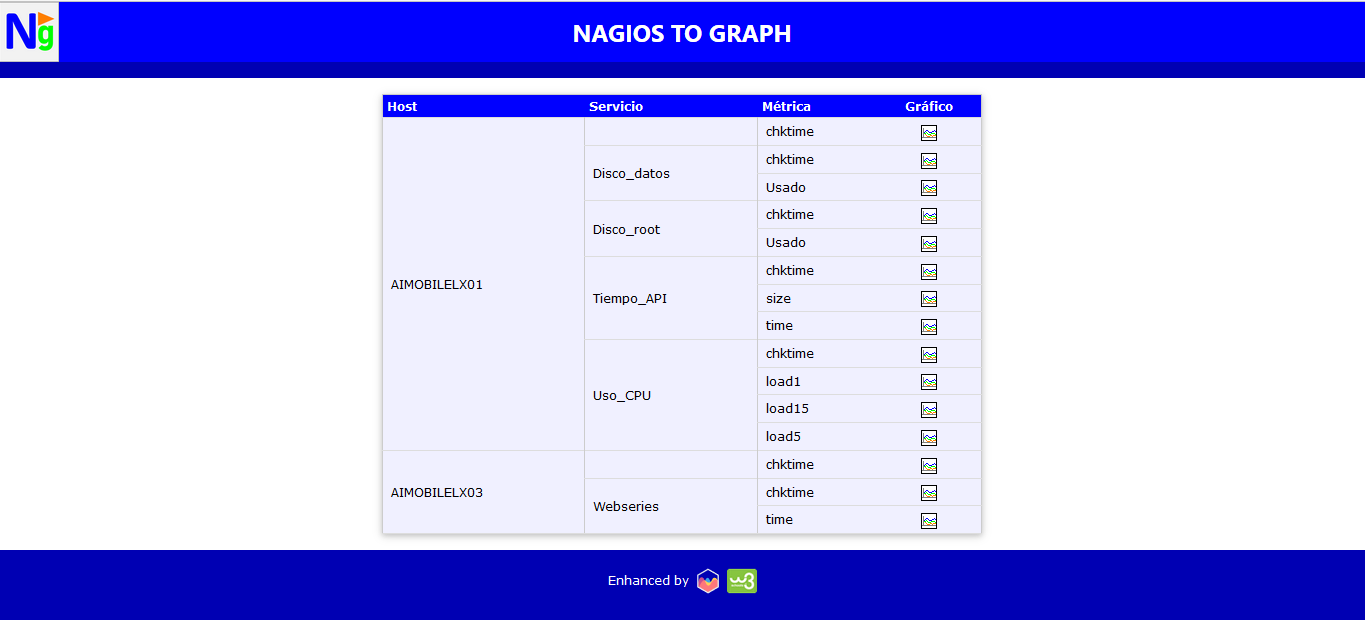
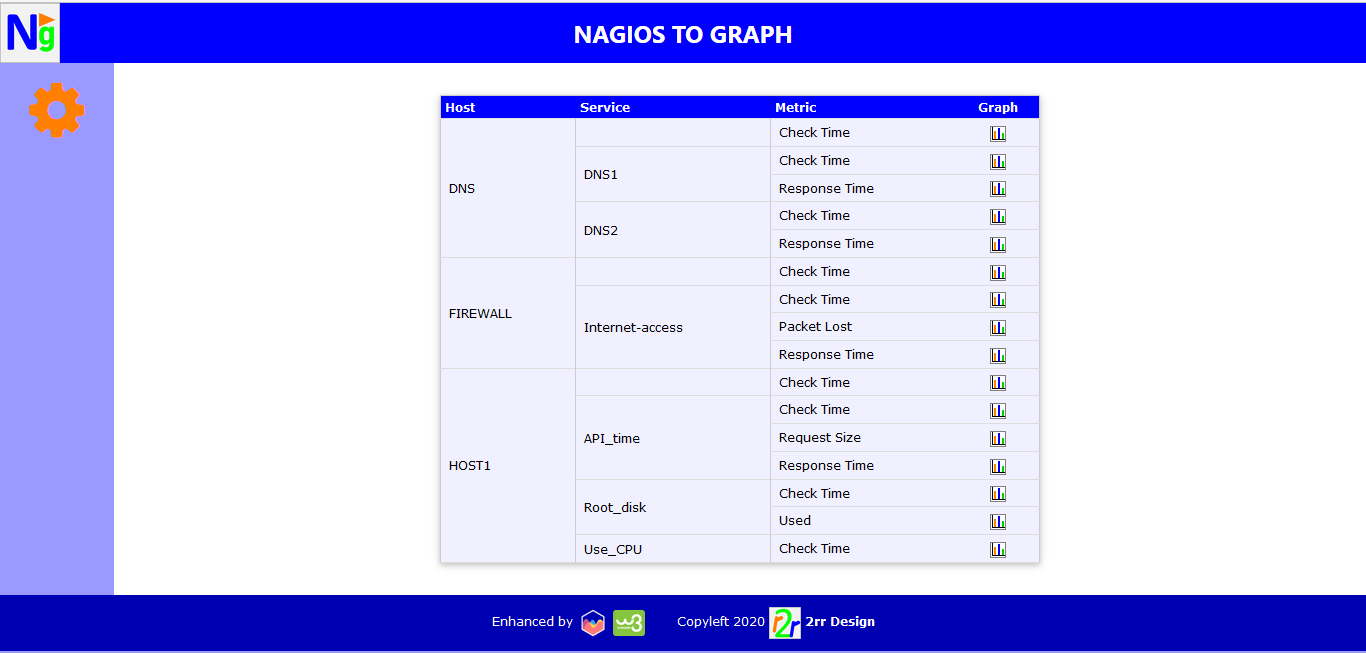
Version 1.0.0

diff --git a/www/frm/n2gconfig_pri.htm b/www/frm/n2gconfig_pri.htm
@@ -1,12 +1,12 @@
 <?php include ('frm/cab.htm');?>
 <body class="w3-theme-l3">
 <script src="https://cdn.jsdelivr.net/npm/chart.js@2.9.4/dist/Chart.min.js"></script>   
-<?php $titulo='NAGIOS TO GRAPH';include ('frm/tit.htm');?>   
+<?php $titulo='NAGIOS TO GRAPH - '.TITCFG;include ('frm/tit.htm');?>   
 <form id="form" action="<?php echo MODULO;?>.php" method="post">
    <input type="hidden" name="ftoken" id="ftoken" value="<?php echo $_REQUEST['ftoken']; ?>">
    <input type="hidden" name="modulo" id="modulo" value="<?php echo MODULO;?>">
    <div class="w3-row">
-      <div class="w3-col m1 l1 w3-theme-l3"><p class="w3-center"><a href="n2gconfig.php" title="<?php echo TITCFG;?>"><i class="fa fa-gear w3-jumbo" style="color: #ff7f00"></i></a></p>
+      <div class="w3-col m1 l1 w3-theme-l3"><p class="w3-center"><a href="./" title="<?php echo GBOTRET;?>"><i class="fa fa-sign-out fa-rotate-180 w3-jumbo" style="color: #ff7f00"></i></a></p>
       </div>
       <div class="w3-col m11 l11 w3-white">
          <div class="w3-container w3-responsive w3-margin-top w3-margin-bottom w3-white">
@@ -16,7 +16,8 @@
                   <th class="w3-padding-tiny"><?php echo TABTITHOS;?></th>
                   <th class="w3-padding-tiny"><?php echo TABTITSER;?></th>
                   <th class="w3-padding-tiny"><?php echo TABTITMET;?></th>
-                  <th class="w3-padding-tiny w3-center"><?php echo TABTITGRA;?></th>
+                  <th class="w3-padding-tiny"><?php echo TABCFGALI;?></th>
+                  <th class="w3-padding-tiny"><?php echo TABCFGUNI;?></th>
                </tr>
             </thead>
             <?php
@@ -24,36 +25,48 @@
             <tr>
                <?php if ($val['mh']==true){ echo '<td class="w3-padding-small w3-border-right" rowspan="',$hosts[$val['host']],'" style="vertical-align: middle;">',$val['host'],'</td>';}?>
                <?php if ($val['ms']==true){ echo '<td class="w3-padding-small w3-border-right" rowspan="',$services[$val['host'].$val['service']],'" style="vertical-align: middle;">',$val['service'],'</td>';}?>
-               <td class="w3-padding-small"><?php echo $val['metalias'] ;?></td>
-               <td class="w3-padding-small w3-center"><button class="w3-btn w3-padding-0 w3-hover-theme" type="button" id="botgraph" style="background-color: transparent; background-image:url('img/graph_16b.png'); background-repeat: no-repeat; width: 16px; height: 16px" onclick="vergraph('<?php echo $val['idmser'];?>');">&nbsp;</button></td>
+               <td class="w3-padding-small w3-border-right"><?php echo $val['metrica'] ;?></td>
+               <td class="w3-padding-tiny w3-border-right"><input class="w3-input w3-border w3-padding-tiny" value="<?php echo $val['metalias'];?>" onchange="grabacambio('metalias',this.value,'<?php echo $val['idmser'];?>');"></td>
+               <td class="w3-padding-tiny"><input class="w3-input w3-border w3-padding-tiny" value="<?php echo $val['unidad'];?>" onchange="grabacambio('unidad',this.value,'<?php echo $val['idmser'];?>');"></td>
             </tr>   
             <?php } ?>
          </table>
          </div>
       </div>
    </div>
-   <!--Popup para mostrar gráfico -->
+   <!--Popup para selección -->
    <div id="psel" class="w3-modal" style="padding-top: 50px; display:none">
-      <div class="w3-modal-content w4-card-4 w3-container" style="width: 1000px">
+      <div class="w3-modal-content w3-border-red" style="border: 5px solid">
+         <div class="w3-bar w3-red">&nbsp;</div>
          <div class="w3-container">
-            <br>
-            <div id="pselcon" class="w3-border w3-white"><canvas id="graf1"></canvas></div>
+            <div id="pselcon"></div>
          </div>
-         <div class="w3-container w3-center w3-margin-top">
-            <input class="w3-btn w3-theme w3-hover-theme w3-padding-small w3-round-large" type="button" value="<" onclick="vergraph(0,'botatras');">
-            <input class="w3-btn w3-theme w3-hover-theme w3-padding-small w3-round-large" type="button" value="-" onclick="vergraph(0,'botmenos');">
-            <input class="w3-btn w3-theme w3-hover-theme w3-padding-small w3-round-large" type="button" value="<?php echo GBOTRET;?>" onclick="document.getElementById('psel').style.display='none';">
-            <input class="w3-btn w3-theme w3-hover-theme w3-padding-small w3-round-large" type="button" value="+" onclick="vergraph(0,'botmas');">
-            <input class="w3-btn w3-theme w3-hover-theme w3-padding-small w3-round-large" type="button" value=">" onclick="vergraph(0,'botadelante');">
-            <input class="w3-btn w3-theme w3-hover-theme w3-padding-small w3-round-large" type="button" value=">>" onclick="vergraph(0,'botfin');">
+         <div class="w3-container w3-center w3-margin-bottom">
+            <input class="w3-btn w3-red w3-hover-theme w3-padding-small w3-round-large" type="button" value="<?php echo BOTCERRAR;?>" onclick="document.getElementById('psel').style.display='none'">
          </div>
-         <br>
       </div>
    </div>
+
 </form>
 <footer class="w3-theme-d3">
    <p class="w3-small w3-center w3-margin-0 w3-padding-large"><span class="w3-margin-right"><?php echo FOOTENH;?> <a href="https://www.chartjs.org" title="Chart.js"><img src="img/chartjs-logo.svg" style="width: 32px"></a> <a href="https://www.w3schools.com/w3css" title="W3.css"><img src="img/w3schools.ico" style="width: 32px"></a></span><span class="w3-margin-left">Copyleft 2020 <a href="mailto: doserredesign@gmail.com"><img src="img/2rr-biz_logo.png" style="width: 32px"></a> <b>2rr Design</b></span></p>
 </footer>
 </body>
-<script type="text/javascript" src="js/n2graph_<?php echo LANG;?>.js"></script>
+<script type="text/javascript">
+   function grabacambio(ep,eq,er){
+   var xhttp = new XMLHttpRequest();
+   xhttp.onreadystatechange = function() {
+   if (this.readyState == 4) {
+   if (this.status == 200) {
+      //OK. Do nothing
+   } else if (this.status== 401){
+   document.getElementById("pselcon").innerHTML = this.responseText;
+   document.getElementById("psel").style.display='block';
+   }}};
+   xhttp.open("POST", "n2g_datac.php", true);
+   xhttp.setRequestHeader("Content-type", "application/x-www-form-urlencoded");
+   var z="tipo="+ep+"&valor="+eq+"&num="+er+"&mod="+document.getElementById('modulo').value+"&ftoken="+document.getElementById('ftoken').value;
+   xhttp.send(z);
+   }
+</script>
 </html>

diff --git a/www/js/n2graph_es.js b/www/js/n2graph_es.js
@@ -10,7 +10,7 @@ if (this.status == 200) {
 var rp=JSON.parse(this.responseText);
 window.michart.data.labels=rp.rotulos;
 window.michart.data.datasets=[{ borderColor: '#00ff00', backgroundColor: '#00ff00', data: rp.avg, label: 'Promedio'},{ borderColor: '#ff7f00', backgroundColor: '#ff7f00', label: 'Mínimo', data: rp.min},{ borderColor: '#0000ff', backgroundColor: '#0000ff', label: 'Máximo', data: rp.max}];
-window.michart.options={animation: {duration:0}, legend: {position: 'bottom'}, aspectRatio: 1.8,title: { display: true, text: rp.titulo, fontSize:24, fontColor: '#0000ff'},tooltips: {mode: 'index', intersect: false}, scales:{xAxes: [{display: true, scaleLabel:{display: true,labelString: rp.ejex }}],yAxes:[{display:true, ticks:{suggestedMin:0},scaleLabel:{display:true,labelString:'Valor'}}] } };        
+window.michart.options={animation: {duration:0}, legend: {position: 'bottom'}, aspectRatio: 1.8,title: { display: true, text: rp.titulo, fontSize:24, fontColor: '#0000ff'},tooltips: {mode: 'index', intersect: false}, scales:{xAxes: [{display: true, scaleLabel:{display: true,labelString: rp.ejex }}],yAxes:[{display:true, ticks:{suggestedMin:0},scaleLabel:{display:true,labelString:rp.unidad}}] } };        
 window.michart.update();
 document.getElementById("psel").style.display='block';
 } else if (this.status== 401){

diff --git a/www/js/n2graph_en.js b/www/js/n2graph_en.js
@@ -10,7 +10,7 @@ if (this.status == 200) {
 var rp=JSON.parse(this.responseText);
 window.michart.data.labels=rp.rotulos;
 window.michart.data.datasets=[{ borderColor: '#00ff00', backgroundColor: '#00ff00', data: rp.avg, label: 'Average'},{ borderColor: '#ff7f00', backgroundColor: '#ff7f00', label: 'Minimum', data: rp.min},{ borderColor: '#0000ff', backgroundColor: '#0000ff', label: 'Maximum', data: rp.max}];
-window.michart.options={animation: {duration:0}, legend: {position: 'bottom'}, aspectRatio: 1.8,title: { display: true, text: rp.titulo, fontSize:24, fontColor: '#0000ff'},tooltips: {mode: 'index', intersect: false}, scales:{xAxes: [{display: true, scaleLabel:{display: true,labelString: rp.ejex }}],yAxes:[{display:true, ticks:{suggestedMin:0},scaleLabel:{display:true,labelString:'Value'}}] } };        
+window.michart.options={animation: {duration:0}, legend: {position: 'bottom'}, aspectRatio: 1.8,title: { display: true, text: rp.titulo, fontSize:24, fontColor: '#0000ff'},tooltips: {mode: 'index', intersect: false}, scales:{xAxes: [{display: true, scaleLabel:{display: true,labelString: rp.ejex }}],yAxes:[{display:true, ticks:{suggestedMin:0},scaleLabel:{display:true,labelString:rp.unidad}}] } };        
 window.michart.update();
 document.getElementById("psel").style.display='block';
 } else if (this.status== 401){

diff --git a/www/frm/cab.htm b/www/frm/cab.htm
@@ -8,4 +8,5 @@
 <link rel="stylesheet" type="text/css" href="css/w3-v4.css" media="all" />
 <link rel="stylesheet" type="text/css" href="css/n2g.css" media="all">
 <meta name="viewport" content="width=device-width, height=device-height, initial-scale=1">
+<link rel="stylesheet" href="https://cdnjs.cloudflare.com/ajax/libs/font-awesome/4.7.0/css/font-awesome.min.css">
 </head>

diff --git a/www/n2gconfig.php b/www/n2gconfig.php
@@ -1,11 +1,11 @@
 <?php
 /*****************************************************
-* N2GRAPH: Gráficos de Nagios
+* N2GCONFIG: Customization
 *****************************************************/
 //Establecimiento de sesion
 session_start();
 //Establezco nombre del programa
-define('MODULO','n2graph');
+define('MODULO','n2gconfig');
 include ('../cfg/config.php');
 //Abro conexión a la base de datos
 mysqli_report(MYSQLI_REPORT_STRICT); 
@@ -14,8 +14,8 @@ try{
    $idbase->set_charset('utf8mb4');
 }
 catch (mysqli_sql_exception $e){
-   flog('n2graph_error',$e->getMessage());
-   flog('n2graph_error',ERROROP);
+   flog('n2gconfig_error',$e->getMessage());
+   flog('n2gconfig_error',ERROROP);
    ferror(ERRORDB);
    exit;
 }   
@@ -35,20 +35,20 @@ if (isset($_SESSION[MODULO]['ftoken']) and isset($_REQUEST['ftoken'])
       unset($_SESSION[MODULO]);
       header('location: ./');
       exit;
-   }elseif ($ultpan=='n2graph_pri'){
+   }elseif ($ultpan=='n2gconfig_pri'){
       if (isset($_REQUEST['botfiltrar'])){
-         n2graph_pri('1');
+         n2gconfig_pri('1');
          exit;
       }
    }
 }
-n2graph_pri('0',$idbase);
+n2gconfig_pri('0',$idbase);
 exit;
 /***************************************************
-* N2GRAPH_PRI: 
+* N2GCONFIG_PRI: Initial Screen 
 ***************************************************/
-function n2graph_pri($ep,&$idbase){
-   $_SESSION[MODULO]['ultpan']='n2graph_pri';
+function n2gconfig_pri($ep,&$idbase){
+   $_SESSION[MODULO]['ultpan']='n2gconfig_pri';
    if ($ep=='0'){
       //primera vez que ingresa, inicializo el token
       $_REQUEST['ftoken']=md5(date('U'));
@@ -70,12 +70,12 @@ function n2graph_pri($ep,&$idbase){
       mysqli_free_result($result);
    }
    catch (Exception $e){
-      if (isset($sql)){flog('n2graph_error',$sql);}
-      flog('n2graph_error',$e->getMessage());
+      if (isset($sql)){flog('n2gconfig_error',$sql);}
+      flog('n2gconfig_error',$e->getMessage());
       ferror(ERRORRD);
       exit;
    }
-   include ('frm/n2graph_pri.htm');
+   include ('frm/n2gconfig_pri.htm');
 }
 
 

diff --git a/www/n2g_datac.php b/www/n2g_datac.php
@@ -1,0 +1,43 @@
+<?php
+session_start();
+include ('../cfg/config.php');
+mysqli_report(MYSQLI_REPORT_STRICT); 
+try{
+   $idbase = new mysqli(HOST, USER, PASS, 'n2graph');
+   $idbase->set_charset('utf8mb4');
+}
+catch (mysqli_sql_exception $e){
+   flog('n2gconfig_error',$e->getMessage());
+   flog('n2gconfig_error',ERROROP);
+   ferror(ERRORDB);
+   exit;
+}   
+if (isset($_REQUEST['tipo'])){
+   if ($_REQUEST['tipo']=='metalias'){
+      $sql='update mser set metalias=\''.$_REQUEST['valor'].'\' where idmser='.$_REQUEST['num'];
+   }else{
+      $sql='update mser set unidad=\''.$_REQUEST['valor'].'\' where idmser='.$_REQUEST['num'];
+   }
+   try {
+      if (!$result=mysqli_query($idbase,$sql)){
+         throw new Exception (ERRORWD,2);
+      }
+      mysqli_free_result($result);
+   }
+   catch (Exception $e){
+      if (isset($sql)){flog('n2gconfig_error',$sql);}
+      flog('n2gconfig_error',$e->getMessage());
+      ferror(ERRORDB);
+      exit;
+   }
+}
+
+function flog($slog,$tlog){$log='/var/nagios/'.$slog.'_'.date('Y_m_d').'.log';
+error_log(PHP_EOL.date('Y-m-d H:i:s').';'.$tlog,3,$log);}
+
+function ferror($ep){
+   http_response_code(401);
+   echo '<h3 class="w3-text-red">',$ep,'</h3>';
+   exit;
+}
+?>

diff --git a/www/n2g_data.php b/www/n2g_data.php
@@ -115,6 +115,7 @@ catch (mysqli_sql_exception $e){
 
 
 $titulo=GTITNE;
+$unidad=GUNIDAD;
 $sql='select * from mser where idmser='.$num;
 try {
    if (!$result=mysqli_query($idbase,$sql)){
@@ -122,7 +123,8 @@ try {
    }
    if (mysqli_num_rows($result)==1){
       $row=mysqli_fetch_assoc($result);
-      $titulo=$row['host'].'-'.$row['service'].'-'.$row['metrica'];
+      $titulo=$row['host'].'-'.$row['service'].'-'.$row['metalias'];
+      if (!empty($row['unidad'])){$unidad=$row['unidad'];}
    }
    mysqli_free_result($result);
 }
@@ -184,12 +186,14 @@ foreach ($dat as $key=>$val){
       $res['max'][]='NaN';
    }   
 }
+$res['unidad']=$unidad;
 $res['titulo']=$titulo;
 echo json_encode($res);
 
 
 function flog($slog,$tlog){$log='/var/nagios/'.$slog.'_'.date('Y_m_d').'.log';
 error_log(PHP_EOL.date('Y-m-d H:i:s').';'.$tlog,3,$log);}
+
 function ferror($ep){
    $res=array();
    $res['rotulos'][]=1;
@@ -197,6 +201,7 @@ function ferror($ep){
    $res['avg'][]=1;
    $res['min'][]=1;
    $res['max'][]=1;
+   $res['unidad']='';
    $res['titulo']=$ep;
    echo json_encode($res);
 }

diff --git a/cfg/es.php b/cfg/es.php
@@ -3,6 +3,7 @@ define ('TABTITHOS','Servidor');
 define ('TABTITSER','Servicio');
 define ('TABTITMET','M&eacute;trica');
 define ('TABTITGRA','Gr&aacute;fico');
+define ('TITCFG','Configurar');
 define ('FOOTENH','Mejorado con');
 define ('GBOTRET','Volver');
 define ('GFOOT1','Cada 1 minuto, desde: ');
@@ -16,4 +17,8 @@ define ('ERRORRD','Error leyendo datos');
 define ('ERRORWD','Error escribiendo datos');
 define ('ERRORDB','Error en la base de datos');
 define ('ERROROP','Error al abrir la base de datos');
+define ('GUNIDAD','Valores');
+define ('TABCFGALI','Alias de la Métrica');
+define ('TABCFGUNI','Unidad');
+define ('BOTCERRAR','Cerrar');
 ?>

diff --git a/cfg/en.php b/cfg/en.php
@@ -3,6 +3,7 @@ define ('TABTITHOS','Host');
 define ('TABTITSER','Service');
 define ('TABTITMET','Metric');
 define ('TABTITGRA','Graph');
+define ('TITCFG','Configure');
 define ('FOOTENH','Enhanced by');
 define ('GBOTRET','Return');
 define ('GFOOT1','Every 1 minute, from: ');
@@ -16,4 +17,8 @@ define ('ERRORRD','Error reading database');
 define ('ERRORWD','Error writing database');
 define ('ERRORDB','Error in database');
 define ('ERROROP','Error opening database');
+define ('GUNIDAD','Values');
+define ('TABCFGALI','Metric Alias');
+define ('TABCFGUNI','Unit');
+define ('BOTCERRAR','Close');
 ?>

diff --git a/n2gproc.php b/n2gproc.php
@@ -50,7 +50,7 @@ function busca_met(&$idbase,&$lin,$metrica,$valor){
       if (mysqli_num_rows($result)==0){
          //la métrica no existe, la agrego
          mysqli_free_result($result);
-         $sql='insert into mser (host,service,metrica) values (\''.$lin[1].'\',\''.$lin[2].'\',\''.$metrica.'\')';
+         $sql='insert into mser (host,service,metrica,metalias) values (\''.$lin[1].'\',\''.$lin[2].'\',\''.$metrica.'\',\''.$metrica.'\')';
          if (!$result2=mysqli_query($idbase,$sql)){
             throw new Exception (ERRORWD,2);
          }
